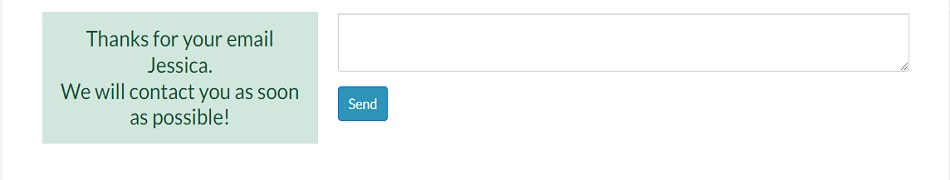
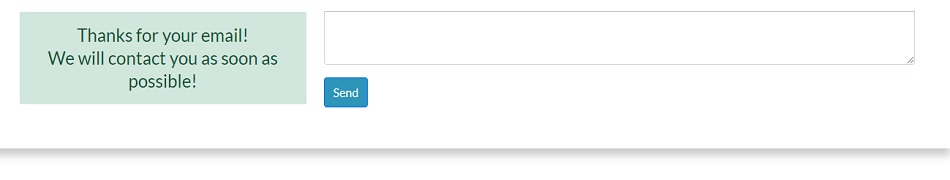
Add code

Changed region(s): [[0.0, 0.0556, 1.0, 0.8889]]

diff --git a/README.md b/README.md
@@ -245,11 +245,11 @@ Wireframes for this project [here](WIREFRAMES.md)
 ![Delete Comment](./assets/images/readme/features/interactive_messages/tasty_blog_user_interaction_comment_delete_3.jpg)
 * After pressing the button Delete again inside the Bootstrap box model they will see a message on the top of the page, "Your comment was deleted successfully".<br>
   
-![Email Sent](./assets/images/readme/features/interactive_messages/tasty_blog_user_interaction_email_sent.jpg)
-* Any user can send a message using the contact form on the Contact page and they will see the message on the top of the page saying, "Your email has been sent".<br>
-  
-![Email Sent](./assets/images/readme/features/interactive_messages/tasty_blog_user_interaction_email_sent_2.jpg)
-* After pressing the button Send to submit the massage they will also see the message, "Thanks for your email (username). We will contact you as soon as possible", next to the contact form.<br>
+![Email Sent - Success](./assets/images/readme/features/interactive_messages/tasty_blog_user_interaction_email_sent_2.jpg)
+*After users submit the form they will see the message, "Thanks for your email! We will contact you as soon as possible", if the email will be sent successfully, next to the contact form..<br>
+* 
+![Email Sent - Failed](./assets/images/readme/features/interactive_messages/tasty_blog_user_interaction_email_sent.jpg)
+* If the email will not be submitted successfully, users will see the message, "Sorry, something went wrong! Try to submit the email again". Next to the contact form..<br>
 
 ![Empty Search](./assets/images/readme/features/interactive_messages/tasty_blog_user_interaction_profile_empty_search.jpg)
 * Any user can search for a keyword using the input search and if the search is done with an empty input they will see a message saying, "You forgot to search a recipe. Please try searching again.".<br>
